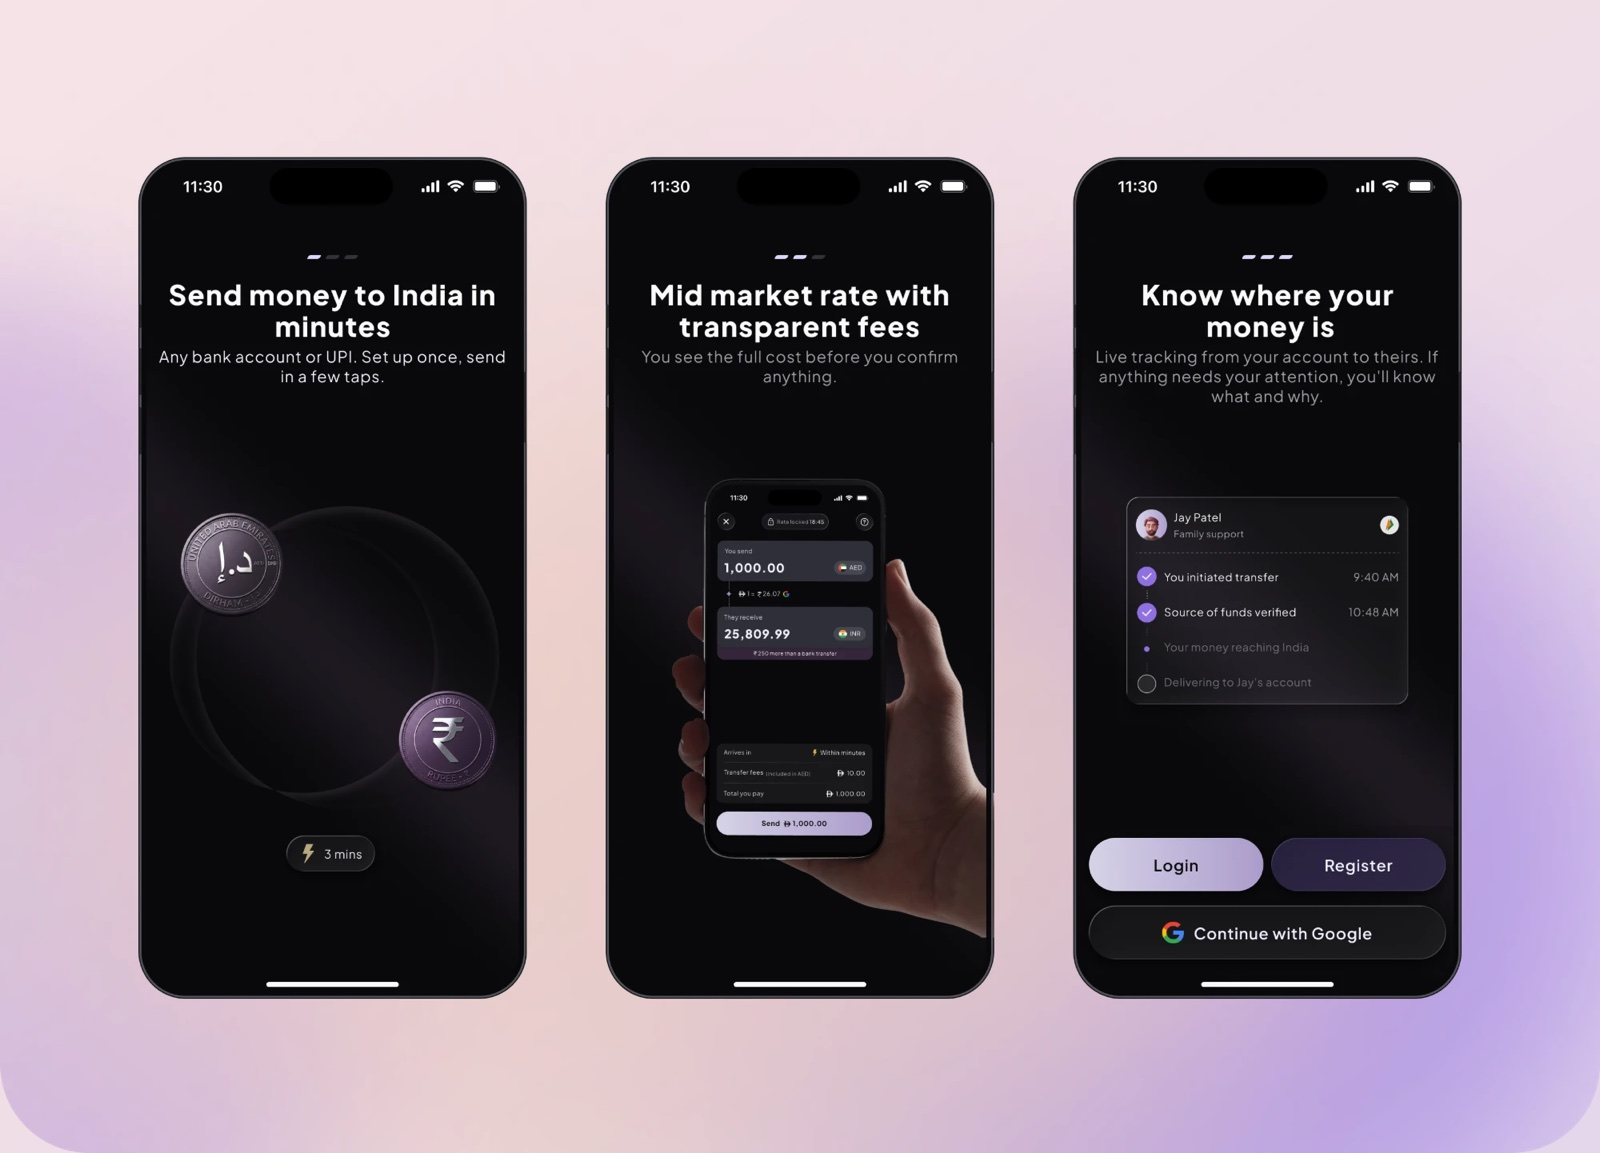
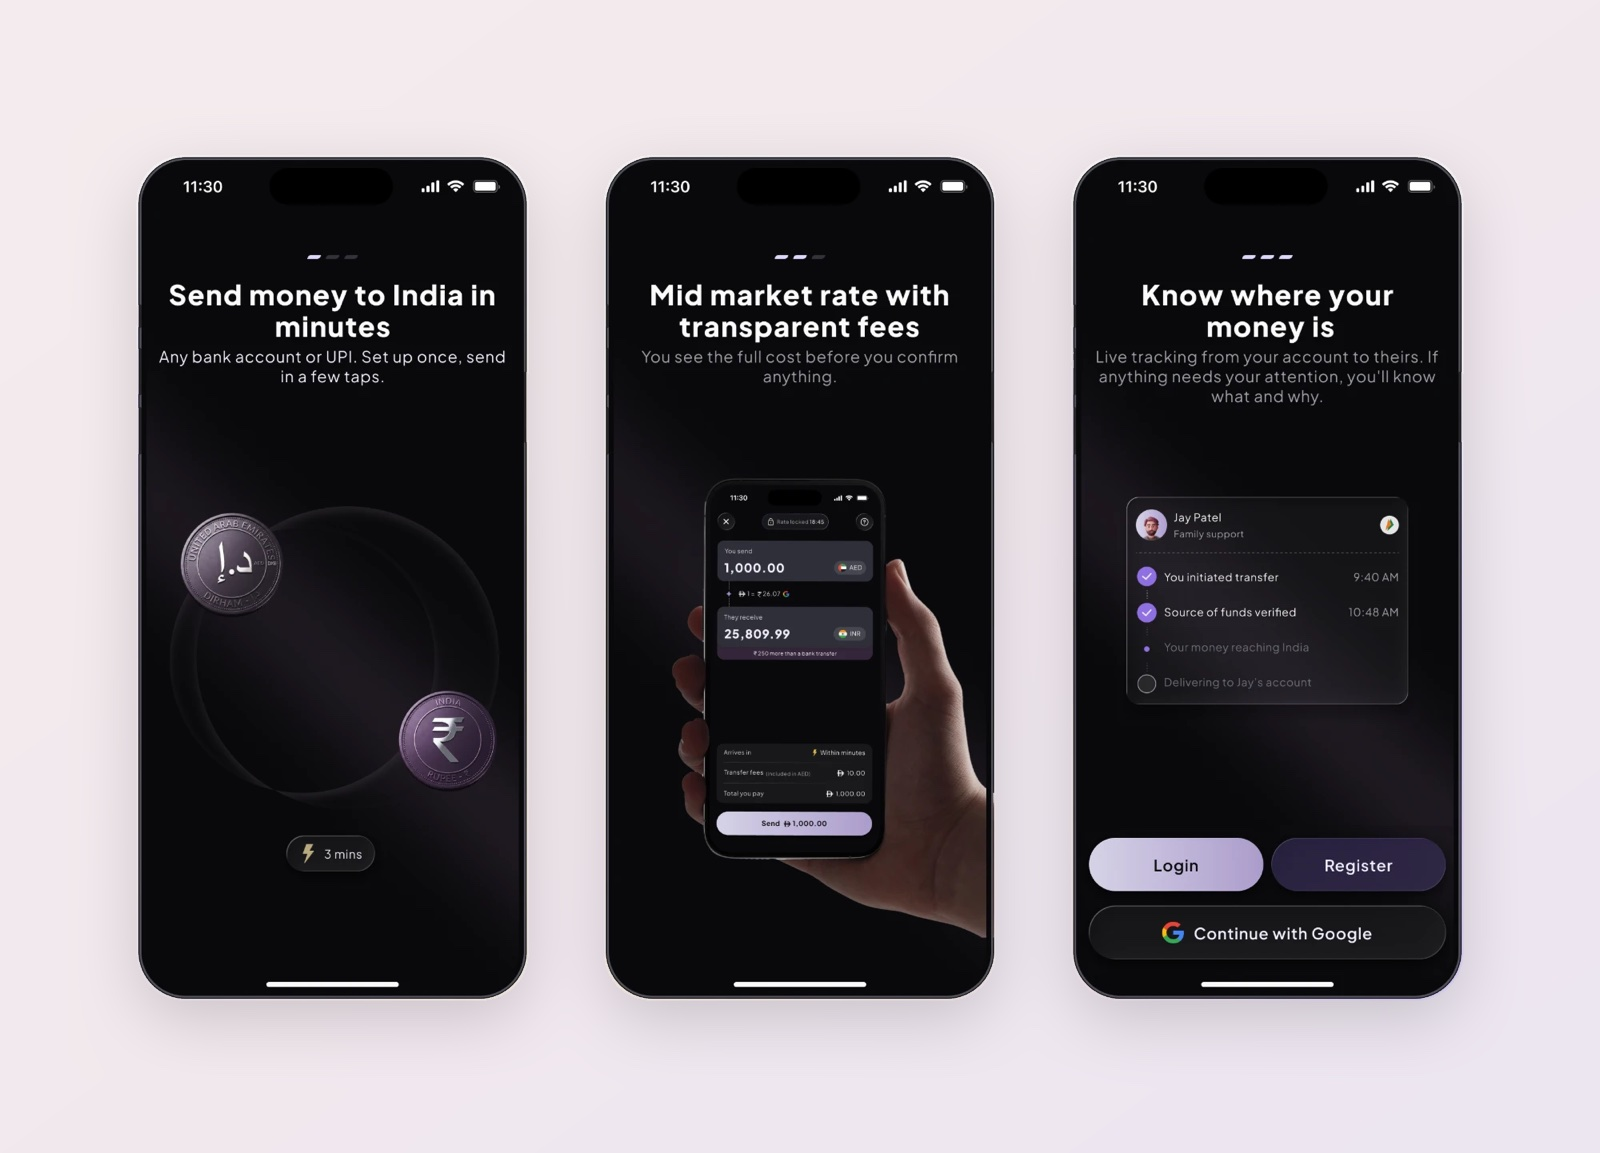
Softer mockup backgrounds with clean corners, Apple-style earphones plugged into the iPod, subtler card hover

Changed region(s): [[0.0, 0.2186, 1.0, 1.0]]

diff --git a/index.html b/index.html
@@ -12,8 +12,8 @@
 <link rel="preconnect" href="https://fonts.googleapis.com">
 <link rel="preconnect" href="https://fonts.gstatic.com" crossorigin>
 <link href="https://fonts.googleapis.com/css2?family=Libre+Baskerville:ital,wght@0,400..700;1,400..700&family=Plus+Jakarta+Sans:wght@400;500;600;700&display=swap" rel="stylesheet">
-<link rel="stylesheet" href="assets/css/style.css?v=a3bcd352">
-<link rel="stylesheet" href="assets/css/dark.css?v=a3bcd352">
+<link rel="stylesheet" href="assets/css/style.css?v=acd249e8">
+<link rel="stylesheet" href="assets/css/dark.css?v=acd249e8">
 <script>/* dark mode: apply the saved choice before the page draws, so there is no flash */
 try { if (localStorage.getItem("theme") === "dark") document.documentElement.dataset.theme = "dark"; } catch (e) {}</script>
 </head>
@@ -362,16 +362,21 @@ try { if (localStorage.getItem("theme") === "dark") document.documentElement.dat
     </div>
     <div class="cd-stage pod-stage" data-reveal style="--d:.15s">
       <div class="pod">
-        <svg class="pod-wire" viewBox="-80 -132 300 140" aria-hidden="true">
-          <path class="pw-cord" d="M60 -27 C 60 -62, 34 -58, 16 -72 S 6 -88, 10 -92" />
-          <path class="pw-cord" d="M10 -92 C 0 -110, -26 -114, -46 -104" />
-          <path class="pw-cord" d="M10 -92 C 30 -116, 66 -124, 88 -112" />
-          <rect class="pw-split" x="5" y="-99" width="10" height="13" rx="4" transform="rotate(20 10 -92)" />
-          <g transform="rotate(-38 -56 -98)"><rect class="pw-stem" x="-60" y="-100" width="8" height="15" rx="3.5" /><ellipse class="pw-bud" cx="-56" cy="-112" rx="13" ry="15" /><ellipse class="pw-mesh" cx="-56" cy="-114" rx="7" ry="8" /></g>
-          <g transform="rotate(30 98 -106)"><rect class="pw-stem" x="94" y="-108" width="8" height="15" rx="3.5" /><ellipse class="pw-bud" cx="98" cy="-120" rx="13" ry="15" /><ellipse class="pw-mesh" cx="98" cy="-122" rx="7" ry="8" /></g>
-          <rect class="pw-relief" x="57" y="-30" width="6" height="14" rx="3" />
-          <rect class="pw-plug" x="54" y="-18" width="12" height="20" rx="2.5" />
-          <rect class="pw-ring" x="54" y="-6" width="12" height="2" />
+        <svg class="pod-wire" viewBox="-110 -200 400 210" aria-hidden="true">
+          <defs>
+            <path id="pwc1" d="M60 -30 C 60 -72, 40 -78, 40 -95" />
+            <path id="pwc2" d="M40 -95 C 25 -95, -55 -80, -55 -110" />
+            <path id="pwc3" d="M40 -95 C 60 -95, 120 -85, 120 -120" />
+          </defs>
+          <g class="pw-cords-o"><use href="#pwc1"/><use href="#pwc2"/><use href="#pwc3"/></g>
+          <g class="pw-cords"><use href="#pwc1"/><use href="#pwc2"/><use href="#pwc3"/></g>
+          <rect class="pw-part" x="-5" y="-8" width="10" height="16" rx="4.5" transform="translate(40 -95)" />
+          <rect class="pw-part" x="-12" y="-4.5" width="24" height="9" rx="4.5" transform="translate(97.6 -96.1) rotate(-13.7)" />
+          <g class="pw-pod" transform="translate(-55 -110) rotate(-16)"><rect class="pw-stem" x="-5" y="-42" width="10" height="42" rx="5"/><ellipse class="pw-head" cx="7" cy="-52" rx="17" ry="13.5" transform="rotate(-18 7 -52)"/><ellipse class="pw-mesh" cx="12" cy="-55" rx="7.5" ry="4.6" transform="rotate(-18 12 -55)"/><circle class="pw-dot" cx="-3" cy="-48" r="1.6"/><rect class="pw-tip" x="-5" y="-4" width="10" height="4" rx="1.5"/></g>
+          <g class="pw-pod" transform="translate(120 -120) rotate(14) scale(-1,1)"><rect class="pw-stem" x="-5" y="-42" width="10" height="42" rx="5"/><ellipse class="pw-head" cx="7" cy="-52" rx="17" ry="13.5" transform="rotate(-18 7 -52)"/><ellipse class="pw-mesh" cx="12" cy="-55" rx="7.5" ry="4.6" transform="rotate(-18 12 -55)"/><circle class="pw-dot" cx="-3" cy="-48" r="1.6"/><rect class="pw-tip" x="-5" y="-4" width="10" height="4" rx="1.5"/></g>
+          <rect class="pw-part" x="56.5" y="-32" width="7" height="16" rx="3.5" />
+          <rect class="pw-plug" x="53.5" y="-18" width="13" height="21" rx="2.5" />
+          <rect class="pw-ring" x="53.5" y="-7" width="13" height="1.6" />
         </svg>
         <div class="pod-screen">
           <div class="pod-view pod-now">
@@ -449,6 +454,6 @@ try { if (localStorage.getItem("theme") === "dark") document.documentElement.dat
     </div>
   </div>
 </footer>
-<script src="assets/js/main.js?v=a3bcd352"></script>
+<script src="assets/js/main.js?v=acd249e8"></script>
 </body>
 </html>

diff --git a/assets/css/style.css b/assets/css/style.css
@@ -2265,3 +2265,24 @@ main.home.sl-bg + .ft--scene { background: linear-gradient(180deg, #e6dcd1 0%, r
 @media (max-width: 600px) { .pod-wire { transform-origin: 46.67% 100%; transform: translateY(5.8%) scaleX(-1); } }
 /* stacked layout: room above the iPod for the earphones, so they never sit on the text */
 @media (max-width: 860px) { .pod-stage { padding-top: 120px; } }
+
+/* iPod earphones v2: Apple-style earbuds, a clearly visible white cord with a soft grey edge, plugged into the jack */
+.pod { margin-top: 40px; }
+.pod-wire { left: -36.67%; width: 133.33%; transform: translateY(4.76%); }
+.pod-wire .pw-cords-o use { fill: none; stroke: #c9c2d8; stroke-width: 5.6; stroke-linecap: round; }
+.pod-wire .pw-cords use { fill: none; stroke: #fff; stroke-width: 3.6; stroke-linecap: round; }
+.pod-wire .pw-cords-o { filter: drop-shadow(0 3px 3px rgba(40,30,80,.18)); }
+.pod-wire .pw-part, .pod-wire .pw-stem, .pod-wire .pw-head, .pod-wire .pw-tip { fill: #fdfdff; stroke: #cfc9dd; stroke-width: 1.2; }
+.pod-wire .pw-pod { filter: drop-shadow(0 4px 5px rgba(40,30,80,.22)); }
+.pod-wire .pw-mesh { fill: #d9d4e4; }
+.pod-wire .pw-dot { fill: #b9b2c9; }
+.pod-wire .pw-plug { fill: #eeecf5; stroke: #c4bed4; stroke-width: 1.2; }
+.pod-wire .pw-ring { fill: #b3adc6; }
+@media (max-width: 600px) { .pod-wire { transform-origin: 42.5% 100%; transform: translateY(4.76%) scale(-.85, .85); } }
+@media (max-width: 860px) { .pod-stage { padding-top: 130px; } .pod { margin-top: 0; } }
+
+/* case study cards: on hover a much softer, less saturated wash fades in */
+.card-media .scene--lav::before { background: linear-gradient(1deg, rgba(196,178,232,.38) 0%, rgba(246,243,251,.3) 95%); }
+.card-media .scene--butter::before { background: linear-gradient(1deg, rgba(236,206,160,.4) 0%, rgba(252,246,238,.3) 100%); }
+.card-media .scene--mix::before { background: linear-gradient(1deg, rgba(190,172,214,.38) 0%, rgba(250,248,252,.3) 100%); }
+.work-grid .card:hover { box-shadow: inset 0 1.5px 1px #fff, inset 0 0 0 1px rgba(255,255,255,.3), 0 30px 60px -34px rgba(70,50,110,.3); }

diff --git a/work/citylockers-kiosk.html b/work/citylockers-kiosk.html
@@ -12,8 +12,8 @@
 <link rel="preconnect" href="https://fonts.googleapis.com">
 <link rel="preconnect" href="https://fonts.gstatic.com" crossorigin>
 <link href="https://fonts.googleapis.com/css2?family=Libre+Baskerville:ital,wght@0,400..700;1,400..700&family=Plus+Jakarta+Sans:wght@400;500;600;700&display=swap" rel="stylesheet">
-<link rel="stylesheet" href="../assets/css/style.css?v=a3bcd352">
-<link rel="stylesheet" href="../assets/css/dark.css?v=a3bcd352">
+<link rel="stylesheet" href="../assets/css/style.css?v=acd249e8">
+<link rel="stylesheet" href="../assets/css/dark.css?v=acd249e8">
 <script>/* dark mode: apply the saved choice before the page draws, so there is no flash */
 try { if (localStorage.getItem("theme") === "dark") document.documentElement.dataset.theme = "dark"; } catch (e) {}</script>
 </head>
@@ -224,6 +224,6 @@ try { if (localStorage.getItem("theme") === "dark") document.documentElement.dat
     </div>
   </div>
 </footer>
-<script src="../assets/js/main.js?v=a3bcd352"></script>
+<script src="../assets/js/main.js?v=acd249e8"></script>
 </body>
 </html>

diff --git a/work/sila.html b/work/sila.html
@@ -12,8 +12,8 @@
 <link rel="preconnect" href="https://fonts.googleapis.com">
 <link rel="preconnect" href="https://fonts.gstatic.com" crossorigin>
 <link href="https://fonts.googleapis.com/css2?family=Libre+Baskerville:ital,wght@0,400..700;1,400..700&family=Plus+Jakarta+Sans:wght@400;500;600;700&display=swap" rel="stylesheet">
-<link rel="stylesheet" href="../assets/css/style.css?v=a3bcd352">
-<link rel="stylesheet" href="../assets/css/dark.css?v=a3bcd352">
+<link rel="stylesheet" href="../assets/css/style.css?v=acd249e8">
+<link rel="stylesheet" href="../assets/css/dark.css?v=acd249e8">
 <script>/* dark mode: apply the saved choice before the page draws, so there is no flash */
 try { if (localStorage.getItem("theme") === "dark") document.documentElement.dataset.theme = "dark"; } catch (e) {}</script>
 </head>
@@ -229,6 +229,6 @@ try { if (localStorage.getItem("theme") === "dark") document.documentElement.dat
     </div>
   </div>
 </footer>
-<script src="../assets/js/main.js?v=a3bcd352"></script>
+<script src="../assets/js/main.js?v=acd249e8"></script>
 </body>
 </html>

diff --git a/work/sku-platform.html b/work/sku-platform.html
@@ -12,8 +12,8 @@
 <link rel="preconnect" href="https://fonts.googleapis.com">
 <link rel="preconnect" href="https://fonts.gstatic.com" crossorigin>
 <link href="https://fonts.googleapis.com/css2?family=Libre+Baskerville:ital,wght@0,400..700;1,400..700&family=Plus+Jakarta+Sans:wght@400;500;600;700&display=swap" rel="stylesheet">
-<link rel="stylesheet" href="../assets/css/style.css?v=a3bcd352">
-<link rel="stylesheet" href="../assets/css/dark.css?v=a3bcd352">
+<link rel="stylesheet" href="../assets/css/style.css?v=acd249e8">
+<link rel="stylesheet" href="../assets/css/dark.css?v=acd249e8">
 <script>/* dark mode: apply the saved choice before the page draws, so there is no flash */
 try { if (localStorage.getItem("theme") === "dark") document.documentElement.dataset.theme = "dark"; } catch (e) {}</script>
 </head>
@@ -218,6 +218,6 @@ try { if (localStorage.getItem("theme") === "dark") document.documentElement.dat
     </div>
   </div>
 </footer>
-<script src="../assets/js/main.js?v=a3bcd352"></script>
+<script src="../assets/js/main.js?v=acd249e8"></script>
 </body>
 </html>

diff --git a/ai-lab.html b/ai-lab.html
@@ -12,8 +12,8 @@
 <link rel="preconnect" href="https://fonts.googleapis.com">
 <link rel="preconnect" href="https://fonts.gstatic.com" crossorigin>
 <link href="https://fonts.googleapis.com/css2?family=Libre+Baskerville:ital,wght@0,400..700;1,400..700&family=Plus+Jakarta+Sans:wght@400;500;600;700&display=swap" rel="stylesheet">
-<link rel="stylesheet" href="assets/css/style.css?v=a3bcd352">
-<link rel="stylesheet" href="assets/css/dark.css?v=a3bcd352">
+<link rel="stylesheet" href="assets/css/style.css?v=acd249e8">
+<link rel="stylesheet" href="assets/css/dark.css?v=acd249e8">
 <script>/* dark mode: apply the saved choice before the page draws, so there is no flash */
 try { if (localStorage.getItem("theme") === "dark") document.documentElement.dataset.theme = "dark"; } catch (e) {}</script>
 </head>
@@ -100,6 +100,6 @@ try { if (localStorage.getItem("theme") === "dark") document.documentElement.dat
     </div>
   </div>
 </footer>
-<script src="assets/js/main.js?v=a3bcd352"></script>
+<script src="assets/js/main.js?v=acd249e8"></script>
 </body>
 </html>

diff --git a/about.html b/about.html
@@ -12,8 +12,8 @@
 <link rel="preconnect" href="https://fonts.googleapis.com">
 <link rel="preconnect" href="https://fonts.gstatic.com" crossorigin>
 <link href="https://fonts.googleapis.com/css2?family=Libre+Baskerville:ital,wght@0,400..700;1,400..700&family=Plus+Jakarta+Sans:wght@400;500;600;700&display=swap" rel="stylesheet">
-<link rel="stylesheet" href="assets/css/style.css?v=a3bcd352">
-<link rel="stylesheet" href="assets/css/dark.css?v=a3bcd352">
+<link rel="stylesheet" href="assets/css/style.css?v=acd249e8">
+<link rel="stylesheet" href="assets/css/dark.css?v=acd249e8">
 <script>/* dark mode: apply the saved choice before the page draws, so there is no flash */
 try { if (localStorage.getItem("theme") === "dark") document.documentElement.dataset.theme = "dark"; } catch (e) {}</script>
 </head>
@@ -82,6 +82,6 @@ try { if (localStorage.getItem("theme") === "dark") document.documentElement.dat
     </div>
   </div>
 </footer>
-<script src="assets/js/main.js?v=a3bcd352"></script>
+<script src="assets/js/main.js?v=acd249e8"></script>
 </body>
 </html>

diff --git a/build.py b/build.py
@@ -407,16 +407,21 @@ def home():
     </div>
     <div class="cd-stage pod-stage" data-reveal style="--d:.15s">
       <div class="pod">
-        <svg class="pod-wire" viewBox="-80 -132 300 140" aria-hidden="true">
-          <path class="pw-cord" d="M60 -27 C 60 -62, 34 -58, 16 -72 S 6 -88, 10 -92" />
-          <path class="pw-cord" d="M10 -92 C 0 -110, -26 -114, -46 -104" />
-          <path class="pw-cord" d="M10 -92 C 30 -116, 66 -124, 88 -112" />
-          <rect class="pw-split" x="5" y="-99" width="10" height="13" rx="4" transform="rotate(20 10 -92)" />
-          <g transform="rotate(-38 -56 -98)"><rect class="pw-stem" x="-60" y="-100" width="8" height="15" rx="3.5" /><ellipse class="pw-bud" cx="-56" cy="-112" rx="13" ry="15" /><ellipse class="pw-mesh" cx="-56" cy="-114" rx="7" ry="8" /></g>
-          <g transform="rotate(30 98 -106)"><rect class="pw-stem" x="94" y="-108" width="8" height="15" rx="3.5" /><ellipse class="pw-bud" cx="98" cy="-120" rx="13" ry="15" /><ellipse class="pw-mesh" cx="98" cy="-122" rx="7" ry="8" /></g>
-          <rect class="pw-relief" x="57" y="-30" width="6" height="14" rx="3" />
-          <rect class="pw-plug" x="54" y="-18" width="12" height="20" rx="2.5" />
-          <rect class="pw-ring" x="54" y="-6" width="12" height="2" />
+        <svg class="pod-wire" viewBox="-110 -200 400 210" aria-hidden="true">
+          <defs>
+            <path id="pwc1" d="M60 -30 C 60 -72, 40 -78, 40 -95" />
+            <path id="pwc2" d="M40 -95 C 25 -95, -55 -80, -55 -110" />
+            <path id="pwc3" d="M40 -95 C 60 -95, 120 -85, 120 -120" />
+          </defs>
+          <g class="pw-cords-o"><use href="#pwc1"/><use href="#pwc2"/><use href="#pwc3"/></g>
+          <g class="pw-cords"><use href="#pwc1"/><use href="#pwc2"/><use href="#pwc3"/></g>
+          <rect class="pw-part" x="-5" y="-8" width="10" height="16" rx="4.5" transform="translate(40 -95)" />
+          <rect class="pw-part" x="-12" y="-4.5" width="24" height="9" rx="4.5" transform="translate(97.6 -96.1) rotate(-13.7)" />
+          <g class="pw-pod" transform="translate(-55 -110) rotate(-16)"><rect class="pw-stem" x="-5" y="-42" width="10" height="42" rx="5"/><ellipse class="pw-head" cx="7" cy="-52" rx="17" ry="13.5" transform="rotate(-18 7 -52)"/><ellipse class="pw-mesh" cx="12" cy="-55" rx="7.5" ry="4.6" transform="rotate(-18 12 -55)"/><circle class="pw-dot" cx="-3" cy="-48" r="1.6"/><rect class="pw-tip" x="-5" y="-4" width="10" height="4" rx="1.5"/></g>
+          <g class="pw-pod" transform="translate(120 -120) rotate(14) scale(-1,1)"><rect class="pw-stem" x="-5" y="-42" width="10" height="42" rx="5"/><ellipse class="pw-head" cx="7" cy="-52" rx="17" ry="13.5" transform="rotate(-18 7 -52)"/><ellipse class="pw-mesh" cx="12" cy="-55" rx="7.5" ry="4.6" transform="rotate(-18 12 -55)"/><circle class="pw-dot" cx="-3" cy="-48" r="1.6"/><rect class="pw-tip" x="-5" y="-4" width="10" height="4" rx="1.5"/></g>
+          <rect class="pw-part" x="56.5" y="-32" width="7" height="16" rx="3.5" />
+          <rect class="pw-plug" x="53.5" y="-18" width="13" height="21" rx="2.5" />
+          <rect class="pw-ring" x="53.5" y="-7" width="13" height="1.6" />
         </svg>
         <div class="pod-screen">
           <div class="pod-view pod-now">
